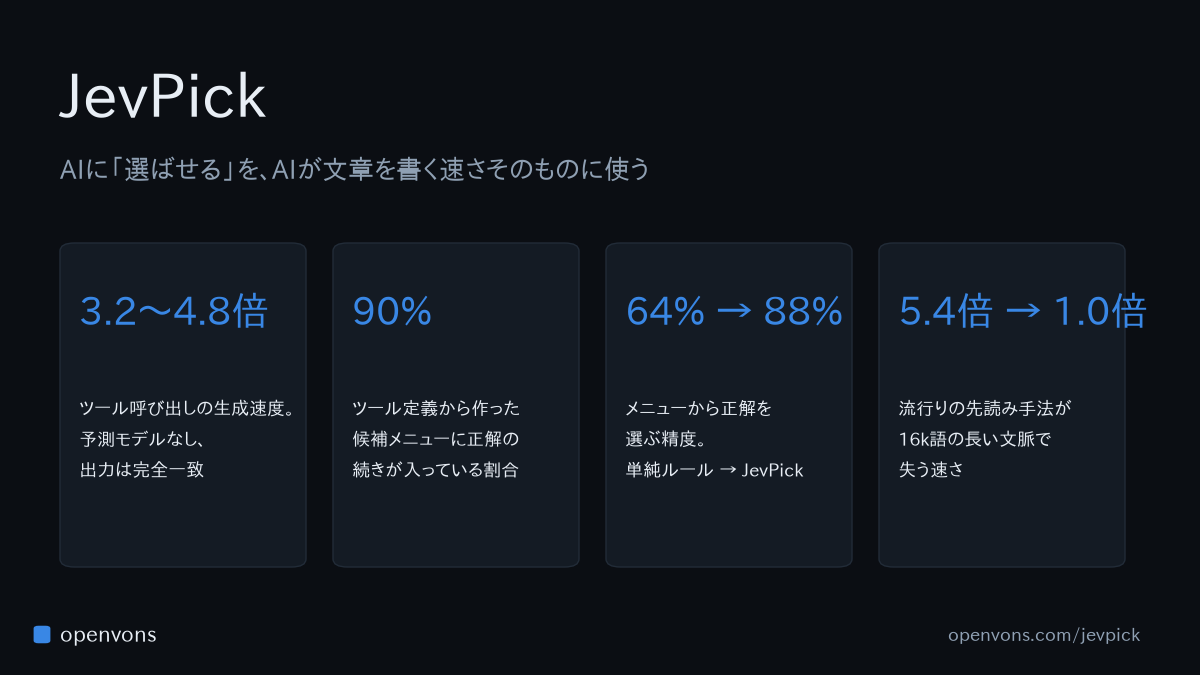
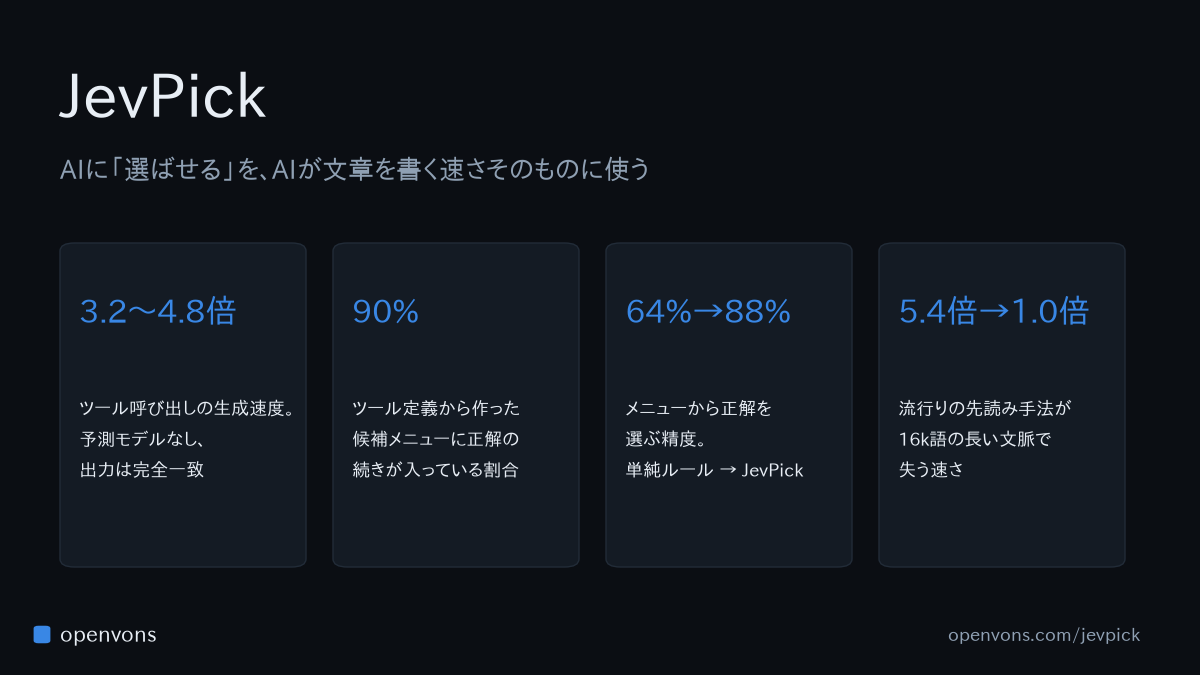
JevPick 投稿画像: ヒーロー数字のはみ出しを修正、4 枚を 1 枚にまとめた 00_all_in_one.png を追加

diff --git a/experiments/jevpick/make_post_images.py b/experiments/jevpick/make_post_images.py
@@ -68,13 +68,13 @@ fig.text(0.05, 0.86, "JevPick", color=FG, fontsize=44, fontweight="bold", va="ce
 fig.text(0.05, 0.75, "AIに「選ばせる」を、AIが文章を書く速さそのものに使う", color=MUTED, fontsize=19, va="center")
 cards = [("3.2〜4.8倍", "ツール呼び出しの生成速度。\n予測モデルなし、\n出力は完全一致"),
          ("90%", "ツール定義から作った\n候補メニューに正解の\n続きが入っている割合"),
-         ("64% → 88%", "メニューから正解を\n選ぶ精度。\n単純ルール → JevPick"),
-         ("5.4倍 → 1.0倍", "流行りの先読み手法が\n16k語の長い文脈で\n失う速さ")]
+         ("64%→88%", "メニューから正解を\n選ぶ精度。\n単純ルール → JevPick"),
+         ("5.4倍→1.0倍", "流行りの先読み手法が\n16k語の長い文脈で\n失う速さ")]
 for k, (big, small) in enumerate(cards):
     x = 0.05 + k * 0.2275
     fig.patches.append(FancyBboxPatch((x, 0.16), 0.205, 0.48, boxstyle="round,pad=0,rounding_size=0.012",
                                       transform=fig.transFigure, facecolor=PANEL, edgecolor=LINE, lw=1))
-    fig.text(x + 0.016, 0.54, big, color=BLUE, fontsize=27, fontweight="bold", va="center")
+    fig.text(x + 0.016, 0.54, big, color=BLUE, fontsize=23, fontweight="bold", va="center")
     fig.text(x + 0.016, 0.35, small, color=FG, fontsize=13, va="center", linespacing=1.7)
 brand(fig)
 fig.savefig(OUT / "01_hero.png", facecolor=BG); plt.close(fig)
@@ -128,4 +128,21 @@ hbar_chart(ax, [("メニューに正解の続きが入っている", 90, "base")
 fig.text(0.05, 0.1, "JevPick: パラメータ 500万、学習 1〜2分。bf16 で学習したものを FP8 / 4-bit のモデルにそのまま使っても低下は 0.5〜3pt。", color=MUTED, fontsize=12.5, va="center")
 brand(fig, y=0.04)
 fig.savefig(OUT / "04_accuracy.png", facecolor=BG); plt.close(fig)
+
+# ---------- 5. 4 枚を 1 枚に (2x2)。各タイルの下部フッターは切り、フッターを 1 つだけ付ける ----------
+from PIL import Image, ImageDraw, ImageFont
+CUT = 625
+tiles = [Image.open(OUT / n).crop((0, 0, W, CUT)) for n in ("01_hero.png", "04_accuracy.png", "02_methods.png", "03_long_context.png")]
+gap, foot = 24, 70
+sheet = Image.new("RGB", (W * 2 + gap * 3, CUT * 2 + gap * 3 + foot), BG)
+for k, im in enumerate(tiles):
+    sheet.paste(im, (gap + (k % 2) * (W + gap), gap + (k // 2) * (CUT + gap)))
+d = ImageDraw.Draw(sheet)
+fpath = next((f for f in font_manager.findSystemFonts() if "ipagp" in f.lower()), None)
+font = ImageFont.truetype(fpath, 26) if fpath else ImageFont.load_default()
+y = CUT * 2 + gap * 3 + foot // 2
+d.rounded_rectangle((gap + 12, y - 12, gap + 36, y + 12), radius=6, fill=BLUE)
+d.text((gap + 48, y), "openvons", fill=FG, font=font, anchor="lm")
+d.text((sheet.width - gap - 12, y), "openvons.com/jevpick", fill=MUTED, font=font, anchor="rm")
+sheet.save(OUT / "00_all_in_one.png")
 print("->", OUT, sorted(p.name for p in OUT.glob("*.png")))
